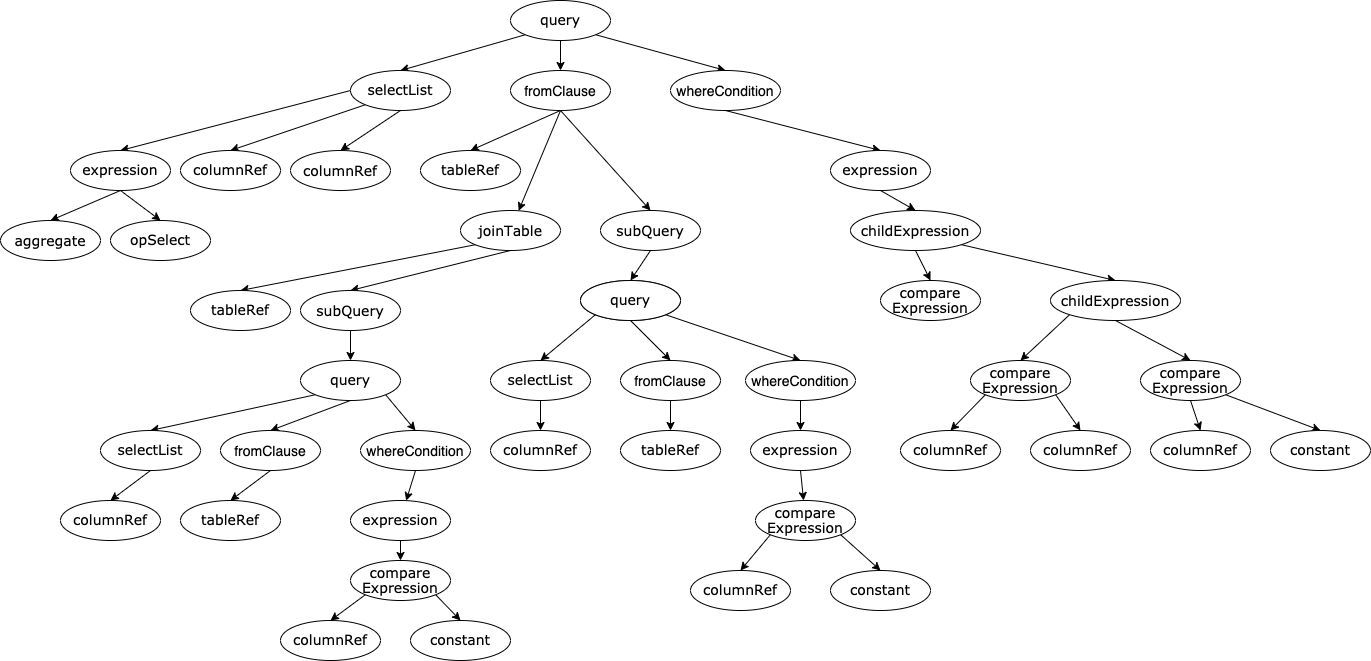
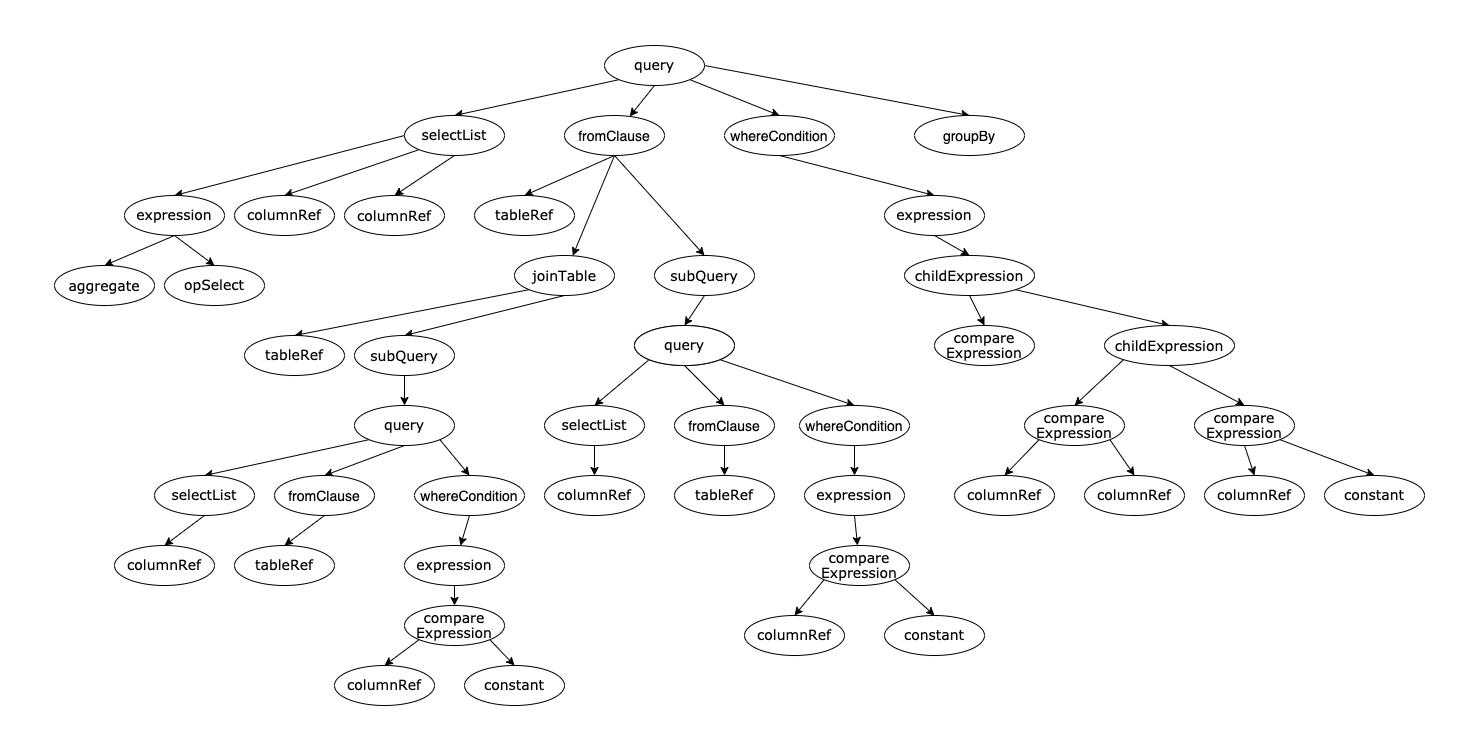
general complete

diff --git a/src/Generator/Query/GroupBy.java b/src/Generator/Query/GroupBy.java
@@ -1,0 +1,98 @@
+package Generator.Query;
+
+import Generator.Element.AggregateType;
+import Generator.Element.CompareType;
+import Generator.Element.SQLType;
+import Generator.Expression.ColumnRef;
+import Generator.Expression.ConstExpression;
+import Generator.Node.Node;
+import Generator.Random.RandomGenerate;
+import Generator.Random.RandomPick;
+
+import static Generator.Random.RandomPick.randomPickAggregate;
+
+// Generate group by clause part
+public class GroupBy extends Node {
+    String columnRef;
+    String having;
+    AggregateType aggregateType;
+    CompareType compareType;
+    ConstExpression constExpression;
+
+    public GroupBy(Node parent,SelectList selectList) {
+        super(parent);
+        int countAggregate = 0;
+        columnRef = "";
+        having = "";
+
+        // generate the columnRef of group by
+        for( int i = 0; i < selectList.expressions.size();i++){
+            if(selectList.expressions.get(i).isAggregate()){
+                countAggregate++;
+            }
+        }
+        int random = RandomGenerate.randomPickSpecific(selectList.expressions.size()-countAggregate);
+        int help = 0;
+        String expression = "";
+        for( int i = 0; i < selectList.expressions.size();i++){
+            if(selectList.expressions.get(i).isAggregate()){
+                help++;
+            }
+            if(help+random==i){
+                expression += selectList.expressions.get(i).toString();
+                break;
+            }
+        }
+        String[] split = expression.split(" ");
+        columnRef += split[0];
+
+        // generate the condition of having
+        if(RandomGenerate.randomPick50()<30){
+            String helper = columnRef;
+            expression = "";
+            long beginTime = System.currentTimeMillis();
+
+            //make sure the column in having is not same as the column in group
+            while (helper.equals(columnRef)) {
+                random = RandomGenerate.randomPickSpecific(selectList.expressions.size());
+                expression += selectList.expressions.get(random).toString();
+                helper = "";
+                if(selectList.expressions.get(random).isAggregate()){
+                    String[] split1 = expression.split(" ");
+                    having += split1[0];
+                    helper += split1[0];
+                }else{
+                    if(selectList.expressions.get(random).getSqlType()== SQLType.INT){
+                        aggregateType = randomPickAggregate();
+                    }else{
+                        aggregateType = AggregateType.COUNT;
+                    }
+                    String[] split1 = expression.split(" ");
+                    StringBuilder stringBuilder = new StringBuilder();
+                    stringBuilder.append(aggregateType.getCode()+"("+split1[0]+")");
+                    having += stringBuilder.toString();
+                    helper += split1[0];
+                }
+                if((System.currentTimeMillis() - beginTime)>500){
+                    throw new IllegalArgumentException("can't find specific sql type data when generate having condition");
+                }
+            }
+            compareType = RandomPick.randomPickCompare();
+            constExpression = new ConstExpression(this,SQLType.INT);
+
+        }
+    }
+
+    @Override
+    public String toString() {
+        StringBuilder stringBuilder = new StringBuilder();
+        stringBuilder.append("group by " + columnRef);
+        if(having!=null && having.length()!=0){
+            stringBuilder.append(System.getProperty("line.separator")).append(Query.format(this.getLevel()))
+                    .append("having " + having + compareType.getCode() + constExpression.toString());
+        }
+        return stringBuilder.toString();
+    }
+
+
+}

diff --git a/src/Generator/Query/Query.java b/src/Generator/Query/Query.java
@@ -4,16 +4,18 @@ import Generator.Expression.BinExpression;
 import Generator.Expression.Expression;
 import Generator.Node.Node;
 import Generator.Node.Scope;
+import Generator.Random.RandomGenerate;
 
 import static Generator.Random.RandomGenerate.*;
 
-
+// Generate a Query SQL
 public class Query extends Node {
 
     String distinct;
     SelectList selectList;
     FromClause fromClause;
     Expression whereCondition;
+    GroupBy groupBy;
     String limitClause;
     Scope curScope;
 
@@ -27,9 +29,20 @@ public class Query extends Node {
         }else{
             this.distinct = "";
         }
+
+        // Initializing each part of a query sql
         this.fromClause = new FromClause(this);
         this.selectList = new SelectList(this);
         this.whereCondition = BinExpression.generate(this);
+        boolean needGroupBy = needGroupBy(this.selectList);
+        if(needGroupBy && RandomGenerate.randomPick50()<40 ||
+                RandomGenerate.randomPick50()<10){
+            this.groupBy = new GroupBy(this,this.selectList);
+        }
+
+        if(parent!=null && parent.getScope()!=null && this.getScope()!=null){
+            parent.getScope().setSeq(this.getScope().getSeq());
+        }
 
         if(randomPick50()>35){
             this.limitClause = "limit " + randomPick100();
@@ -38,18 +51,23 @@ public class Query extends Node {
         }
     }
 
+    // print SQL query
     public String toString(){
         StringBuilder stringBuilder = new StringBuilder();
         stringBuilder.append(System.getProperty("line.separator")).append(format(selectList.getLevel())).append("select ").append(this.distinct + " ").append(selectList.toString()).append(System.getProperty("line.separator"));
         stringBuilder.append(format(fromClause.getLevel())).append(fromClause.toString()).append(System.getProperty("line.separator"));
         stringBuilder.append(format(whereCondition.getLevel())).append("where ").append(whereCondition.toString());
+        if(groupBy!=null){
+            stringBuilder.append(System.getProperty("line.separator")).append(format(fromClause.getLevel())).append(groupBy.toString());
+        }
         if(limitClause.length()!=0){
             stringBuilder.append(System.getProperty("line.separator")).append(format(fromClause.getLevel())).append(limitClause);
         }
         return stringBuilder.toString();
     }
 
-    public String format(int level){
+    // make sure the format of SQL
+    public static String format(int level){
         String format = "";
         level -= 4;
         while(level>=0){
@@ -63,19 +81,18 @@ public class Query extends Node {
         return selectList;
     }
 
-    public FromClause getFromClause() {
-        return fromClause;
-    }
-
-    public Expression getWhereCondition() {
-        return whereCondition;
-    }
-
-    public String getLimitClause() {
-        return limitClause;
-    }
-
-    public Scope getCurScope() {
-        return curScope;
+    // Estimate is this query need a group by clause
+    public boolean needGroupBy(SelectList selectList){
+        int countAggregate = 0;
+        for(Expression expression : selectList.expressions){
+            if(expression.isAggregate()==true){
+                countAggregate ++;
+            }
+        }
+        if(countAggregate!=0 && countAggregate != selectList.expressions.size()){
+            return true;
+        }else{
+            return false;
+        }
     }
 }

diff --git a/src/Generator/Expression/CompareExpression.java b/src/Generator/Expression/CompareExpression.java
@@ -4,7 +4,9 @@ import Generator.Element.CompareType;
 import Generator.Element.Operator;
 import Generator.Element.SQLType;
 import Generator.Node.Node;
+import Generator.Query.SelectList;
 
+import static Generator.Random.RandomGenerate.randomPick8;
 import static Generator.Random.RandomPick.randomPickCompare;
 
 public class CompareExpression extends BinExpression{
@@ -16,7 +18,16 @@ public class CompareExpression extends BinExpression{
         CompareType compareType = randomPickCompare();
         this.operator = new Operator(compareType.getCode(),compareType.getType(),compareType.getType(), SQLType.BOOLEAN);
         this.leftExpression = Expression.generate(this,operator.getLeft());
-        this.rightExpression = Expression.generate(this,operator.getRight());
+        if(this.leftExpression instanceof ConstExpression){
+            if(randomPick8() <= 1 && parent.getLevel()<5){
+                this.rightExpression = new ComputeExpression(this,operator.getRight());
+            }else {
+                this.rightExpression = new ColumnRef(this, operator.getRight());
+            }
+        }else{
+            this.rightExpression = Expression.generate(this,operator.getRight());
+        }
+        this.sqlType = SQLType.BOOLEAN;
     }
 
     @Override

diff --git a/src/Generator/Expression/Expression.java b/src/Generator/Expression/Expression.java
@@ -9,15 +9,17 @@ import static Generator.Random.RandomGenerate.randomPick8;
 public class Expression extends Node {
 
     SQLType sqlType;
+    boolean isAggregate;
 
     public Expression(Node parent) {
         super(parent);
+        isAggregate = false;
     }
 
     public static Expression generate(Node parent, SQLType sqlType){
-        if(randomPick8()==0 && parent.getLevel()<5 && !(parent instanceof CompareExpression)){
+        if(randomPick8()<=1 && parent.getLevel()<5 && !(parent instanceof CompareExpression)){
             return new AggregateExpression(parent,sqlType);
-        }else if(randomPick8()==0 && parent.getLevel()<5){
+        }else if(randomPick8()<1 && parent.getLevel()<5){
             return new ComputeExpression(parent,sqlType);
         }else if(parent.getScope().getColumns().size()!=0 && randomPick8()<3 && !(parent instanceof SelectList)){
             return new ConstExpression(parent,sqlType);
@@ -28,5 +30,9 @@ public class Expression extends Node {
 
     public SQLType getSqlType() {
         return sqlType;
+    }
+
+    public boolean isAggregate() {
+        return isAggregate;
     }
 }

diff --git a/src/Generator/Expression/BinExpression.java b/src/Generator/Expression/BinExpression.java
@@ -2,6 +2,7 @@ package Generator.Expression;
 
 import Generator.Node.Node;
 
+import static Generator.Random.RandomGenerate.randomPick5;
 import static Generator.Random.RandomGenerate.randomPick50;
 
 public class BinExpression extends Expression{
@@ -13,17 +14,8 @@ public class BinExpression extends Expression{
         super(parent);
     }
 
-    public Expression getLeftExpression() {
-        return leftExpression;
-    }
-
-    public Expression getRightExpression() {
-        return rightExpression;
-    }
-
-
     public static BinExpression generate(Node parent){
-        if(randomPick50()<20){
+        if(randomPick50()<20 && parent.getLevel()<6+randomPick5()){
             return new ChildExpression(parent);
         }else {
             return new CompareExpression(parent);

diff --git a/src/Generator/Query/SelectList.java b/src/Generator/Query/SelectList.java
@@ -10,6 +10,7 @@ import java.util.List;
 
 import static Generator.Random.RandomGenerate.*;
 
+// // Generate select clause part
 public class SelectList extends Node {
 
     List<Expression> expressions;
@@ -23,7 +24,7 @@ public class SelectList extends Node {
         derivedColumns = new Table();
         do{
             Expression expression = Expression.generate(this, null);
-            String newColumnName = "c" + String.valueOf(columns++);
+            String newColumnName = this.getScope().aliasGenerate("c_");
             derivedColumns.getColumns().add(new Column(newColumnName, expression.getSqlType()));
             expressions.add(expression);
         } while (randomPick50() < 25);

diff --git a/src/Generator/Sever/Main.java b/src/Generator/Sever/Main.java
@@ -30,6 +30,11 @@ public class Main {
             }
         }
         System.out.println("===the report of error generation:===");
+        int success = num;
+        for( Map.Entry<String, Integer> entry : errorReport.entrySet()){
+            success -= entry.getValue();
+        }
+        System.out.println("Successfully generated"+"\t\t" + success);
         for(Map.Entry<String, Integer> entry : errorReport.entrySet()){
             System.out.println(entry.getKey()+"\t\t" + entry.getValue());
         }

diff --git a/src/Generator/Table/SimpleJoin.java b/src/Generator/Table/SimpleJoin.java
@@ -25,7 +25,7 @@ public class SimpleJoin extends JoinCondition{
                         rightRef.getAlias() + "." + rightColumn.getColumnName();
                 break;
             }
-            if((System.currentTimeMillis() - beginTime)>1000){
+            if((System.currentTimeMillis() - beginTime)>500){
                 throw new IllegalArgumentException("can't find specific sql type data when generate join condition");
             }
         }

diff --git a/src/Generator/Table/TableOrQuery.java b/src/Generator/Table/TableOrQuery.java
@@ -11,7 +11,9 @@ public class TableOrQuery extends TableRef {
 
     public TableOrQuery(Node parent) {
         super(parent);
-        table = randomPickTable(this.getScope().getTables());
+        Table randomTable = randomPickTable(this.getScope().getTables());
+        table = new Table();
+        Table.copy(randomTable,table);
         table.setAlias(this.getScope().aliasGenerate("table_"));
         this.refs.add(table);
     }

diff --git a/src/Generator/Expression/ComputeExpression.java b/src/Generator/Expression/ComputeExpression.java
@@ -16,6 +16,7 @@ public class ComputeExpression extends BinExpression{
         operator = new Operator(computeType.getCode(),computeType.getType(),computeType.getType(),computeType.getType());
         leftExpression = new ColumnRef(this,operator.getLeft());
         rightExpression = new ColumnRef(this,operator.getRight());
+        this.sqlType = SQLType.INT;
 
     }
 

diff --git a/src/Generator/Query/FromClause.java b/src/Generator/Query/FromClause.java
@@ -1,7 +1,5 @@
 package Generator.Query;
 
-
-
 import Generator.Element.Table;
 import Generator.Node.Node;
 import Generator.Table.TableRef;
@@ -9,6 +7,7 @@ import Generator.Table.TableRef;
 import java.util.ArrayList;
 import java.util.List;
 
+// Generate from clause part
 public class FromClause extends Node {
     List<TableRef> tableRefs;
 

diff --git a/src/Generator/Expression/AggregateExpression.java b/src/Generator/Expression/AggregateExpression.java
@@ -23,6 +23,8 @@ public class AggregateExpression extends Expression{
         }else{
             expression = new ComputeExpression(this,aggregationType.getType());
         }
+        this.sqlType = SQLType.INT;
+        this.isAggregate = true;
     }
 
     public String toString(){
